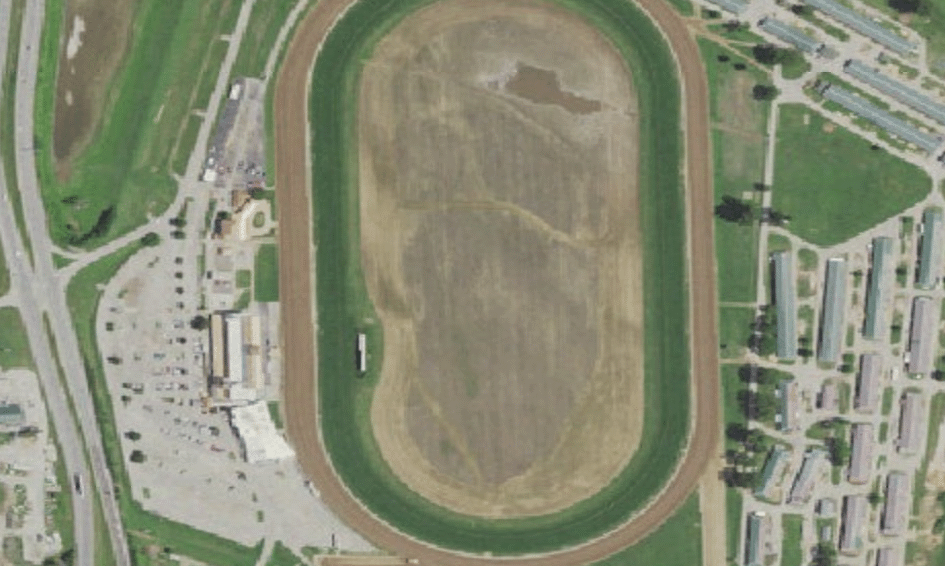
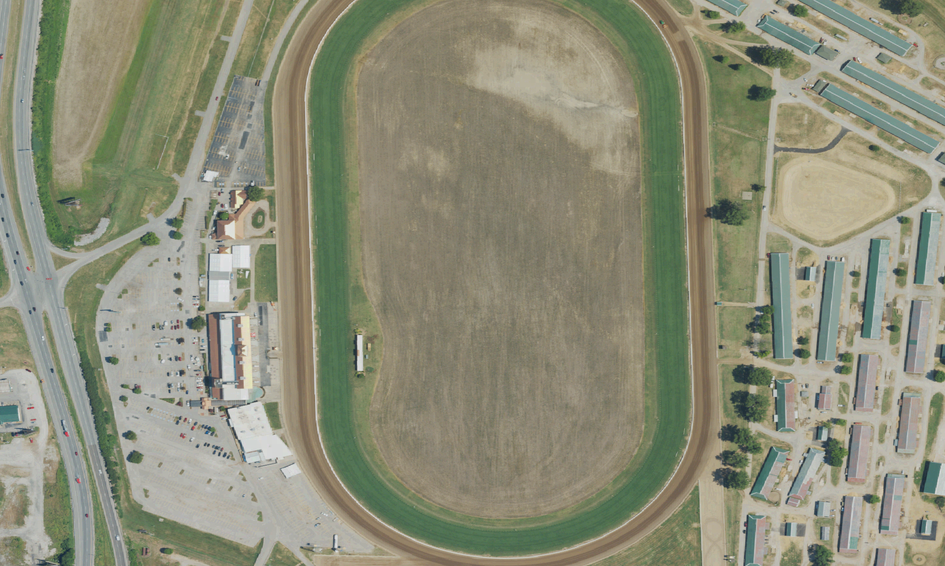
Replace track photos with higher-resolution NAIP imagery
The first pass used USGS's "USGSImageryOnly" basemap service, which
turned out to be a noticeably lower-resolution/older NAIP capture for
Ellis Park and Fair Grounds specifically - visibly blocky even at 3x
render size, confirming it was a real source-resolution issue, not a
scaling artifact. Switched to the "USGSNAIPPlus" ImageServer (the
current/high-res NAIP service) for all three tracks - same public-domain
licensing, much sharper result. Oaklawn Park's photo also refreshed for
consistency, even though it wasn't the one flagged.

diff --git a/index.html b/index.html
@@ -2914,9 +2914,12 @@
       // directly) — falls back to the generic scratches panel like every
       // other non-NYRA track here without one.
       nyraCode: null, scratchesUrl: null,
-      // USGS/NAIP public-domain aerial imagery (basemap.nationalmap.gov),
-      // not a commercial satellite provider — genuinely free to use, no
-      // license needed. Cropped/framed to the track directly, same style
+      // USGS/NAIP public-domain aerial imagery (USGSNAIPPlus ImageServer at
+      // imagery.nationalmap.gov — the current/high-resolution NAIP service;
+      // an initial pass used the lower-resolution USGSImageryOnly basemap
+      // and looked visibly blockier for this specific region, hence the
+      // switch), not a commercial satellite provider — genuinely free to
+      // use, no license needed. Cropped/framed to the track directly, same style
       // as every other track photo here.
       photo: "assets/track-oaklawnpark.png", photoAlt: "Aerial view of Oaklawn Park",
       tideStationId: null, tideRangeFt: null,
